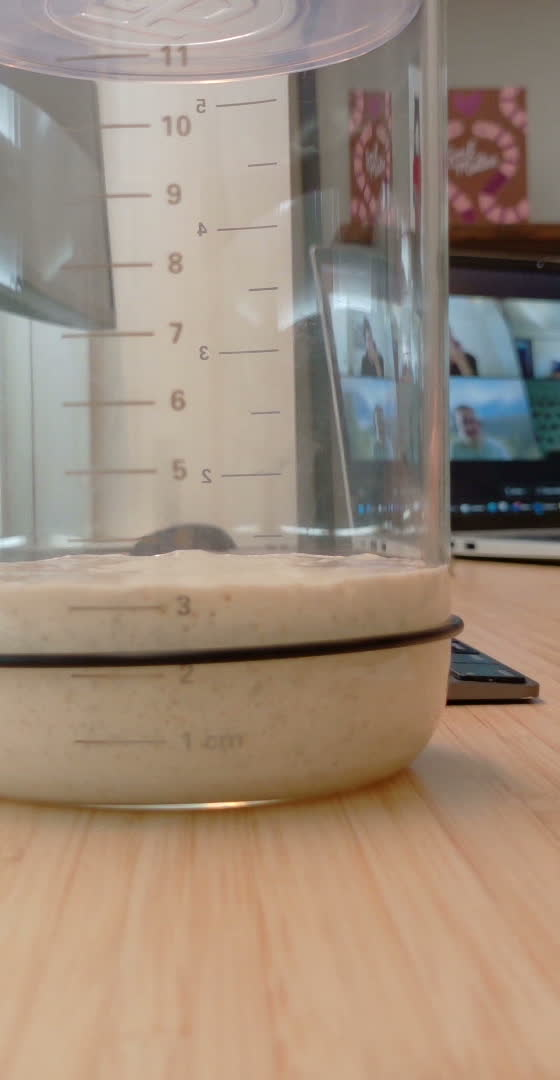
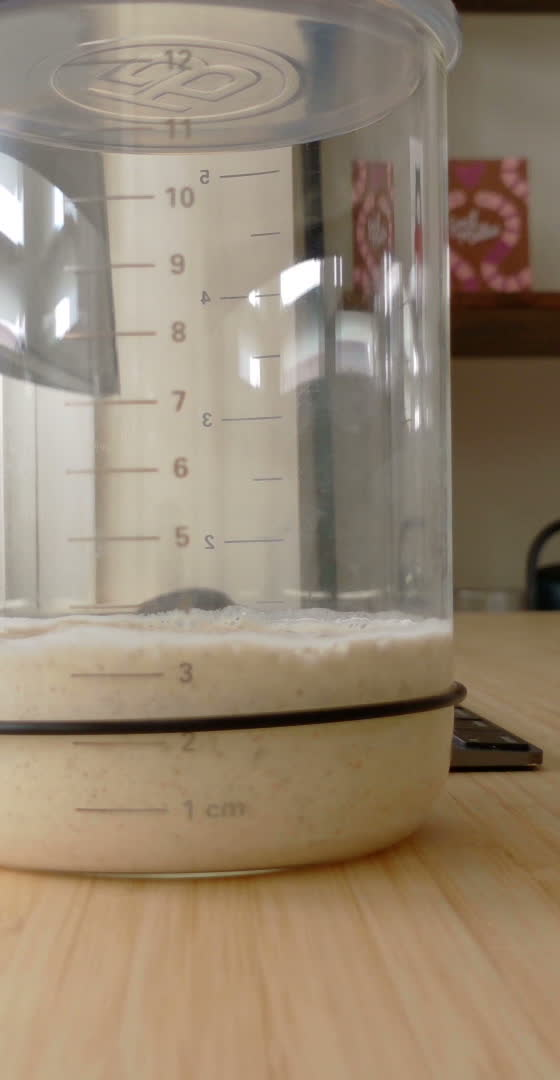
chore: record starter reading

diff --git a/public/index.html b/public/index.html
@@ -2,8 +2,8 @@
 <html lang="en"><head><meta charset="utf-8"><meta name="viewport" content="width=device-width,initial-scale=1"><title>Simon’s Sourdough Starter Watch</title>
 <link href="https://fonts.googleapis.com/css2?family=IBM+Plex+Sans:wght@400;500;600;700;800&family=JetBrains+Mono:wght@400;500;600;700&family=Fraunces:opsz,wght@9..144,650;9..144,800&display=swap" rel="stylesheet">
 <link rel="stylesheet" href="styles.css"></head><body><div class="wrap"><header class="topbar"><div class="brand"><div class="logo" aria-hidden="true"><div class="loafLogo" role="img" aria-label="cartoon bread loaf logo"><span class="loafBody"></span><span class="crust-mark crust-mark-a"></span><span class="crust-mark crust-mark-b"></span><span class="crust-mark crust-mark-c"></span><span class="loafSmile"></span></div></div><div>Simon’s Sourdough Starter Watch</div></div><div class="navpills"><span class="pill dark">FERMENTATION LAB · STORY MODE</span><span class="pill orange">Observed by <a class="hermesLink" href="https://hermes-agent.nousresearch.com/" target="_blank" rel="noopener noreferrer">Hermes</a></span></div></header>
-<main><section class="hero"><div class="panel heroCopy"><span class="tag">STARTER-001 · PUBLIC OBSERVATORY</span><h1>One Jar.<br>One Webcam.<br>Many Bubbles.</h1><p class="sub">A living fermentation experiment watched by a webcam and narrated by Hermes. The agent checks the starter, estimates its rise, writes the log, and pings Telegram when the jar does something worth noticing.</p><div class="storyline"><b>Today’s mood: ambitious.</b> Hermes visual read: main surface just above 3 cm mark; approx 3.0-3.4 cm, phase uncertain Hermes has armed peak watch, which is less dramatic than it sounds — but only slightly.</div><div class="metrics"><div class="metric"><span>Rise</span><b>+45%</b></div><div class="metric"><span>Stage</span><b>Rising</b><small>starter activity</small></div><div class="metric"><span>Estimate</span><b>68%</b><small>how sure we are</small></div><div class="metric"><span>Next photo</span><b>10m</b><small>planned check-in</small></div></div></div><div class="panel photo snapshotCard"><div class="snapshotViewport"><img class="starterSnapshot" src="photos/starter.jpg" alt="latest webcam view of sourdough starter"></div><div class="photoOverlay"><div><strong>Latest webcam frame</strong><small>Actual camera view used for estimation</small></div><div><small>10:12 · webcam</small></div></div></div></section>
-<section class="grid"><div class="panel" style="padding:18px"><div class="sectionHead"><h2>Today’s rise curve</h2><span class="pill">height estimate vs. baseline</span></div><svg class="chart" viewBox="0 0 760 270" preserveAspectRatio="none" aria-label="starter rise over time"><defs><linearGradient id="riseFill2" x1="0" y1="0" x2="0" y2="1"><stop offset="0%" stop-color="#f54e00" stop-opacity=".26"/><stop offset="100%" stop-color="#f54e00" stop-opacity="0"/></linearGradient></defs><g class="axis"><path d="M54 28H730M54 82H730M54 136H730M54 190H730M54 244H730"/><path d="M54 28V244M223 28V244M392 28V244M561 28V244M730 28V244"/></g><g class="ylabel"><text x="8" y="34">120%</text><text x="16" y="88">90%</text><text x="16" y="142">60%</text><text x="16" y="196">30%</text><text x="24" y="249">0%</text></g><path class="area" d="M54 229 C90 226,130 217,172 198 C218 178,245 139,286 119 C335 96,388 70,456 53 C515 39,570 52,618 81 C666 110,705 138,730 165 L730 244 L54 244 Z"/><path class="line" d="M54 229 C90 226,130 217,172 198 C218 178,245 139,286 119 C335 96,388 70,456 53 C515 39,570 52,618 81 C666 110,705 138,730 165"/><g class="dots"><circle cx="54" cy="229" r="5"/><circle cx="172" cy="198" r="5"/><circle cx="286" cy="119" r="5"/><circle cx="456" cy="53" r="7"/><circle cx="618" cy="81" r="5"/><circle cx="730" cy="165" r="5"/></g><g class="callouts"><foreignObject x="72" y="202" width="132" height="48"><div xmlns="http://www.w3.org/1999/xhtml" class="bubble">fed: baseline reset</div></foreignObject><foreignObject x="410" y="12" width="154" height="54"><div xmlns="http://www.w3.org/1999/xhtml" class="bubble hot">peak watch armed</div></foreignObject><foreignObject x="604" y="92" width="150" height="54"><div xmlns="http://www.w3.org/1999/xhtml" class="bubble">curve flattening?</div></foreignObject></g><g class="xlabel"><text x="54" y="266">08:00</text><text x="223" y="266">10:00</text><text x="392" y="266">12:00</text><text x="561" y="266">14:00</text><text x="704" y="266">16:00</text></g></svg></div><div class="panel"><div style="padding:18px 18px 0"><span class="tag">HERMES OBSERVATION LOG</span></div><div class="agent"><h2>The agent is part of the story.</h2><p>Friends should be able to see not just the starter, but the little machine of observation around it.</p><div class="console"><span class="ok">10:12</span> image captured<br><span class="ai">10:12</span> Hermes estimates rise: +45%<br><span class="ai">10:12</span> stage inferred: Rising<br><span class="warn">alert</span> peak_watch = armed<br><span class="ok">next</span> capture scheduled: 10m<br><span class="ai">telegram</span> alert only if curve flattens</div></div></div></section>
+<main><section class="hero"><div class="panel heroCopy"><span class="tag">STARTER-001 · PUBLIC OBSERVATORY</span><h1>One Jar.<br>One Webcam.<br>Many Bubbles.</h1><p class="sub">A living fermentation experiment watched by a webcam and narrated by Hermes. The agent checks the starter, estimates its rise, writes the log, and pings Telegram when the jar does something worth noticing.</p><div class="storyline"><b>Today’s mood: ambitious.</b> Hermes visual read: Main surface a little above 3 cm with bubbly uneven top; plausible 3.2-3.6 cm. Hermes has armed peak watch, which is less dramatic than it sounds — but only slightly.</div><div class="metrics"><div class="metric"><span>Rise</span><b>+55%</b></div><div class="metric"><span>Stage</span><b>Rising</b><small>starter activity</small></div><div class="metric"><span>Estimate</span><b>72%</b><small>how sure we are</small></div><div class="metric"><span>Next photo</span><b>10m</b><small>planned check-in</small></div></div></div><div class="panel photo snapshotCard"><div class="snapshotViewport"><img class="starterSnapshot" src="photos/starter.jpg" alt="latest webcam view of sourdough starter"></div><div class="photoOverlay"><div><strong>Latest webcam frame</strong><small>Actual camera view used for estimation</small></div><div><small>11:16 · webcam</small></div></div></div></section>
+<section class="grid"><div class="panel" style="padding:18px"><div class="sectionHead"><h2>Today’s rise curve</h2><span class="pill">height estimate vs. baseline</span></div><svg class="chart" viewBox="0 0 760 270" preserveAspectRatio="none" aria-label="starter rise over time"><defs><linearGradient id="riseFill2" x1="0" y1="0" x2="0" y2="1"><stop offset="0%" stop-color="#f54e00" stop-opacity=".26"/><stop offset="100%" stop-color="#f54e00" stop-opacity="0"/></linearGradient></defs><g class="axis"><path d="M54 28H730M54 82H730M54 136H730M54 190H730M54 244H730"/><path d="M54 28V244M223 28V244M392 28V244M561 28V244M730 28V244"/></g><g class="ylabel"><text x="8" y="34">120%</text><text x="16" y="88">90%</text><text x="16" y="142">60%</text><text x="16" y="196">30%</text><text x="24" y="249">0%</text></g><path class="area" d="M54 229 C90 226,130 217,172 198 C218 178,245 139,286 119 C335 96,388 70,456 53 C515 39,570 52,618 81 C666 110,705 138,730 165 L730 244 L54 244 Z"/><path class="line" d="M54 229 C90 226,130 217,172 198 C218 178,245 139,286 119 C335 96,388 70,456 53 C515 39,570 52,618 81 C666 110,705 138,730 165"/><g class="dots"><circle cx="54" cy="229" r="5"/><circle cx="172" cy="198" r="5"/><circle cx="286" cy="119" r="5"/><circle cx="456" cy="53" r="7"/><circle cx="618" cy="81" r="5"/><circle cx="730" cy="165" r="5"/></g><g class="callouts"><foreignObject x="72" y="202" width="132" height="48"><div xmlns="http://www.w3.org/1999/xhtml" class="bubble">fed: baseline reset</div></foreignObject><foreignObject x="410" y="12" width="154" height="54"><div xmlns="http://www.w3.org/1999/xhtml" class="bubble hot">peak watch armed</div></foreignObject><foreignObject x="604" y="92" width="150" height="54"><div xmlns="http://www.w3.org/1999/xhtml" class="bubble">curve flattening?</div></foreignObject></g><g class="xlabel"><text x="54" y="266">08:00</text><text x="223" y="266">10:00</text><text x="392" y="266">12:00</text><text x="561" y="266">14:00</text><text x="704" y="266">16:00</text></g></svg></div><div class="panel"><div style="padding:18px 18px 0"><span class="tag">HERMES OBSERVATION LOG</span></div><div class="agent"><h2>The agent is part of the story.</h2><p>Friends should be able to see not just the starter, but the little machine of observation around it.</p><div class="console"><span class="ok">11:16</span> image captured<br><span class="ai">11:16</span> Hermes estimates rise: +55%<br><span class="ai">11:16</span> stage inferred: Rising<br><span class="warn">alert</span> peak_watch = armed<br><span class="ok">next</span> capture scheduled: 10m<br><span class="ai">telegram</span> alert only if curve flattens</div></div></div></section>
 <section class="diary">
     <article class="entry">
       <time>10:01</time>
